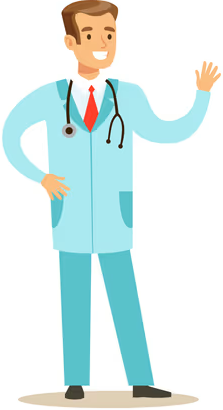
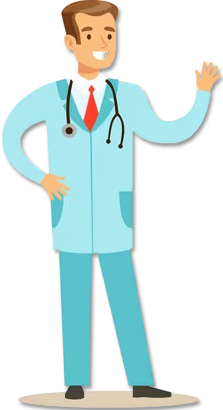
creating the reminder page

diff --git a/lib/reminder_page.dart b/lib/reminder_page.dart
@@ -1,13 +1,206 @@
 import 'package:flutter/material.dart';
+import 'nav_bar.dart';
 
 class ReminderPage extends StatelessWidget {
   const ReminderPage({super.key});
 
+  void _onBottomTap(BuildContext context, int index) {
+    switch (index) {
+      case 0:
+        Navigator.pushReplacementNamed(context, '/home');
+        break;
+      case 1:
+        Navigator.pushReplacementNamed(context, '/reminder');
+        break;
+      case 2:
+        Navigator.pushReplacementNamed(context, '/finder');
+        break;
+      case 3:
+        Navigator.pushReplacementNamed(context, '/sos');
+        break;
+      case 4:
+        Navigator.pushReplacementNamed(context, '/profile');
+        break;
+    }
+  }
+
   @override
   Widget build(BuildContext context) {
-    return const Scaffold(
-      body: Center(
-        child: Text('Reminder Page'),
+    final size = MediaQuery.of(context).size;
+    final screenWidth = size.width;
+    final screenHeight = size.height;
+    final smallScreen = screenHeight < 700;
+
+    return Scaffold(
+      backgroundColor: const Color(0xFFF7F7F7),
+      bottomNavigationBar: CustomBottomNavBar(
+        selectedIndex: 1,
+        onTap: (index) => _onBottomTap(context, index),
+      ),
+      body: SafeArea(
+        child: SingleChildScrollView(
+          padding: EdgeInsets.symmetric(
+            horizontal: screenWidth * 0.05,
+            vertical: 18,
+          ),
+          child: Center(
+            child: ConstrainedBox(
+              constraints: const BoxConstraints(maxWidth: 430),
+              child: Column(
+                crossAxisAlignment: CrossAxisAlignment.start,
+                children: [
+                  SizedBox(height: smallScreen ? 20 : 30),
+                  const Text(
+                    'Medicine & Appointment reminder',
+                    style: TextStyle(
+                      fontSize: 24,
+                      fontWeight: FontWeight.w600,
+                      color: Color(0xFF333333),
+                    ),
+                  ),
+                  SizedBox(height: smallScreen ? 24 : 30),
+                  _ReminderOptionCard(
+                    title: 'Pill Reminder',
+                    imagePath: 'assets/pillReminder.png',
+                    fallbackIcon: Icons.access_time_filled_rounded,
+                    onPressed: () {
+                      Navigator.pushNamed(context, '/pillReminder');
+                    },
+                  ),
+                  SizedBox(height: smallScreen ? 18 : 22),
+                  _ReminderOptionCard(
+                    title: 'Appointment Reminder',
+                    imagePath: 'assets/appointmentReminder.png',
+                    fallbackIcon: Icons.calendar_month_rounded,
+                    onPressed: () {
+                      Navigator.pushNamed(context, '/appointmentReminder');
+                    },
+                  ),
+                  SizedBox(height: smallScreen ? 26 : 34),
+                  Center(
+                    child: Image.asset(
+                      'assets/reminderBottom.png',
+                      width: screenWidth * 0.58,
+                      height: screenHeight * 0.24,
+                      fit: BoxFit.contain,
+                      errorBuilder: (_, __, ___) => Container(
+                        width: screenWidth * 0.58,
+                        height: screenHeight * 0.24,
+                        decoration: BoxDecoration(
+                          color: const Color(0xFFEAF1FF),
+                          borderRadius: BorderRadius.circular(24),
+                        ),
+                        child: const Icon(
+                          Icons.schedule_send_rounded,
+                          size: 90,
+                          color: Color(0xFF7A8BE8),
+                        ),
+                      ),
+                    ),
+                  ),
+                ],
+              ),
+            ),
+          ),
+        ),
+      ),
+    );
+  }
+}
+
+class _ReminderOptionCard extends StatelessWidget {
+  final String title;
+  final String imagePath;
+  final IconData fallbackIcon;
+  final VoidCallback onPressed;
+
+  const _ReminderOptionCard({
+    required this.title,
+    required this.imagePath,
+    required this.fallbackIcon,
+    required this.onPressed,
+  });
+
+  @override
+  Widget build(BuildContext context) {
+    return Container(
+      padding: const EdgeInsets.all(14),
+      decoration: BoxDecoration(
+        color: const Color(0xFFCFF0F0),
+        borderRadius: BorderRadius.circular(22),
+        border: Border.all(
+          color: const Color(0xFF333333),
+          width: 1.4,
+        ),
+        boxShadow: [
+          BoxShadow(
+            color: Colors.black.withOpacity(0.06),
+            blurRadius: 8,
+            offset: const Offset(0, 4),
+          ),
+        ],
+      ),
+      child: Row(
+        children: [
+          Container(
+            width: 82,
+            height: 82,
+            decoration: BoxDecoration(
+              color: const Color(0xFFEAF7F7),
+              borderRadius: BorderRadius.circular(18),
+            ),
+            child: Padding(
+              padding: const EdgeInsets.all(6),
+              child: Image.asset(
+                imagePath,
+                fit: BoxFit.contain,
+                errorBuilder: (_, __, ___) => Icon(
+                  fallbackIcon,
+                  size: 46,
+                  color: const Color(0xFF315C9E),
+                ),
+              ),
+            ),
+          ),
+          const SizedBox(width: 14),
+          Expanded(
+            child: Text(
+              title,
+              style: const TextStyle(
+                fontSize: 24,
+                fontWeight: FontWeight.w500,
+                color: Color(0xFF333333),
+              ),
+            ),
+          ),
+          const SizedBox(width: 10),
+          SizedBox(
+            width: 96,
+            height: 44,
+            child: ElevatedButton(
+              onPressed: onPressed,
+              style: ElevatedButton.styleFrom(
+                backgroundColor: const Color(0xFF67C0D7),
+                foregroundColor: const Color(0xFF1E3A43),
+                elevation: 0,
+                shape: RoundedRectangleBorder(
+                  borderRadius: BorderRadius.circular(24),
+                  side: const BorderSide(
+                    color: Color(0xFF2A6E7E),
+                    width: 1,
+                  ),
+                ),
+              ),
+              child: const Text(
+                'Add',
+                style: TextStyle(
+                  fontSize: 22,
+                  fontWeight: FontWeight.w500,
+                ),
+              ),
+            ),
+          ),
+        ],
       ),
     );
   }
